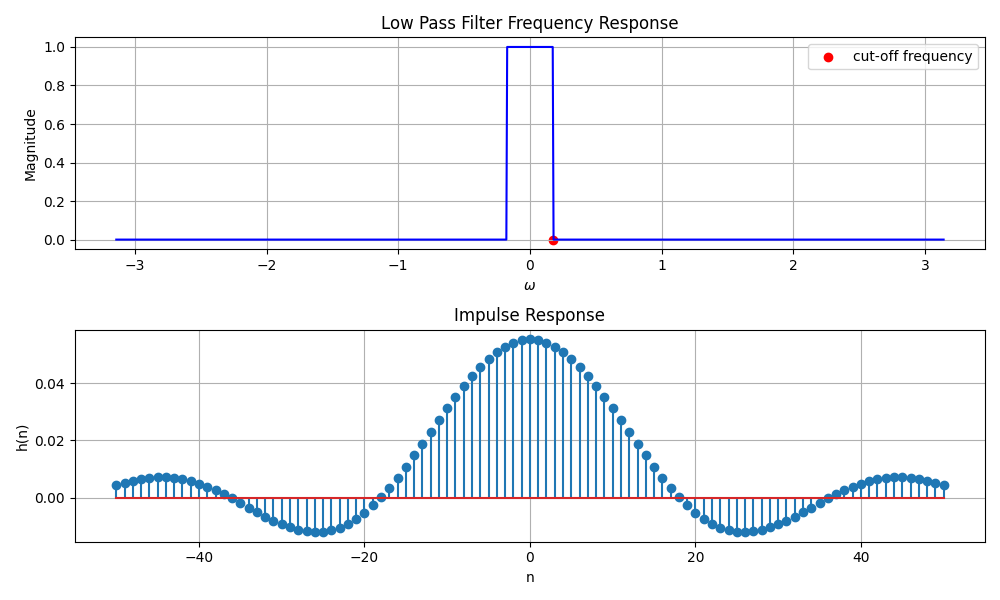
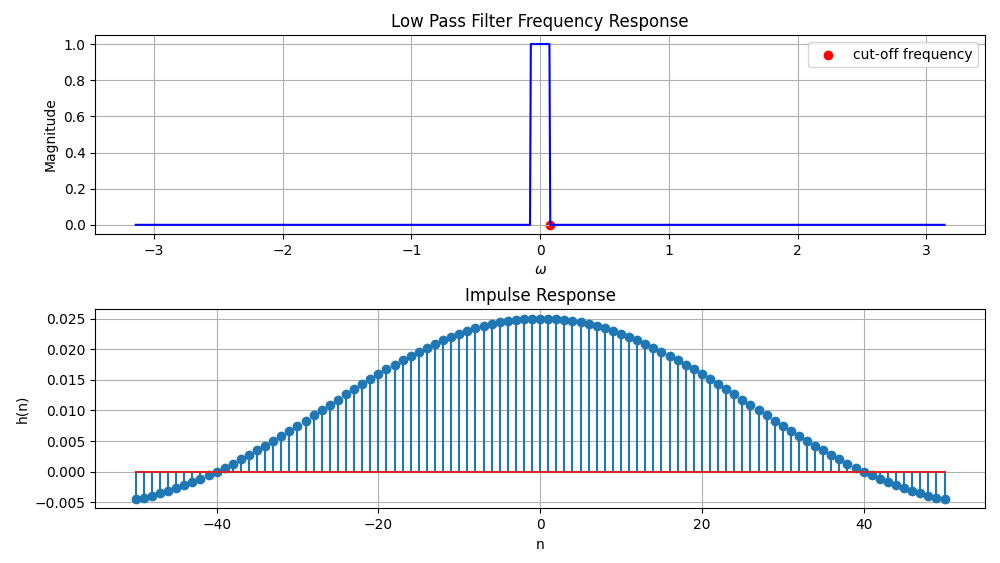
final

diff --git a/filter design/codes/FIR_1.py b/filter design/codes/FIR_1.py
@@ -3,7 +3,7 @@ import matplotlib.pyplot as plt
 from scipy import signal
 
 # Define the cutoff frequency
-wc = 0.0553 * np.pi
+wc = 0.025 * np.pi
 
 # Create a frequency vector
 w = np.linspace(-np.pi, np.pi, 1000)
